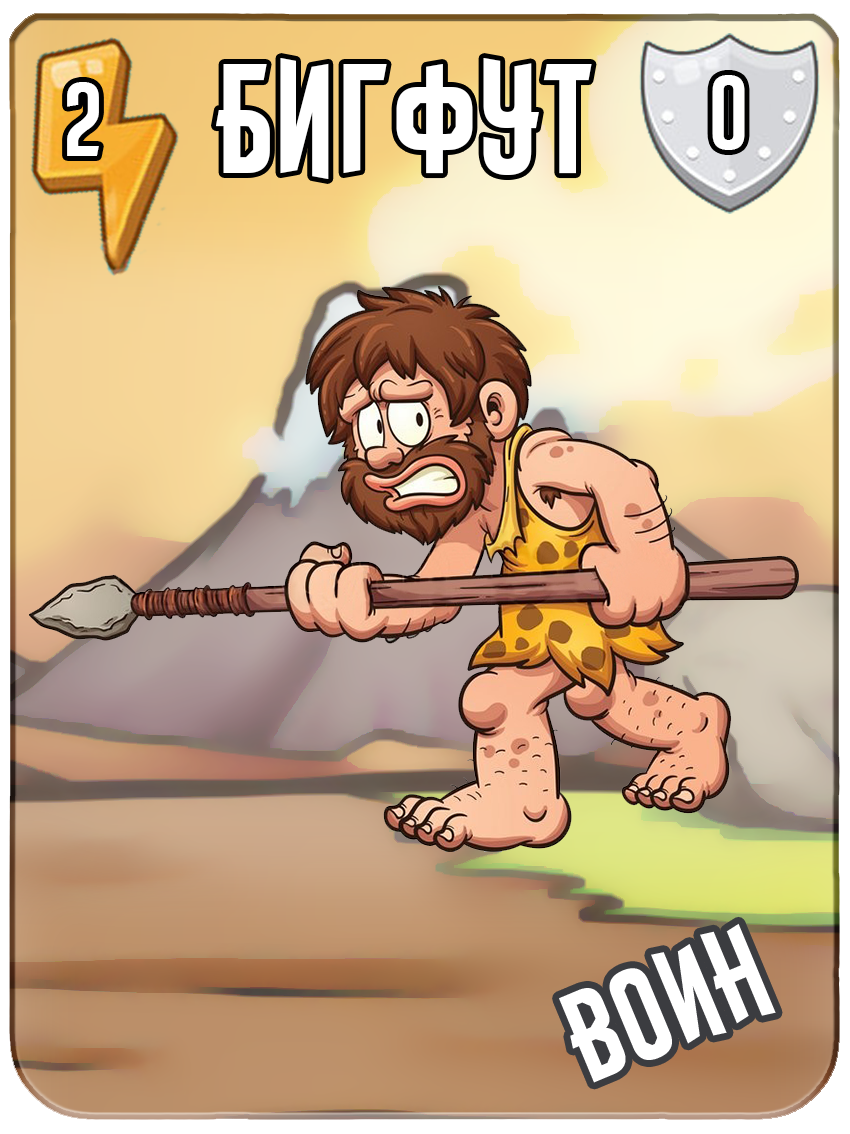
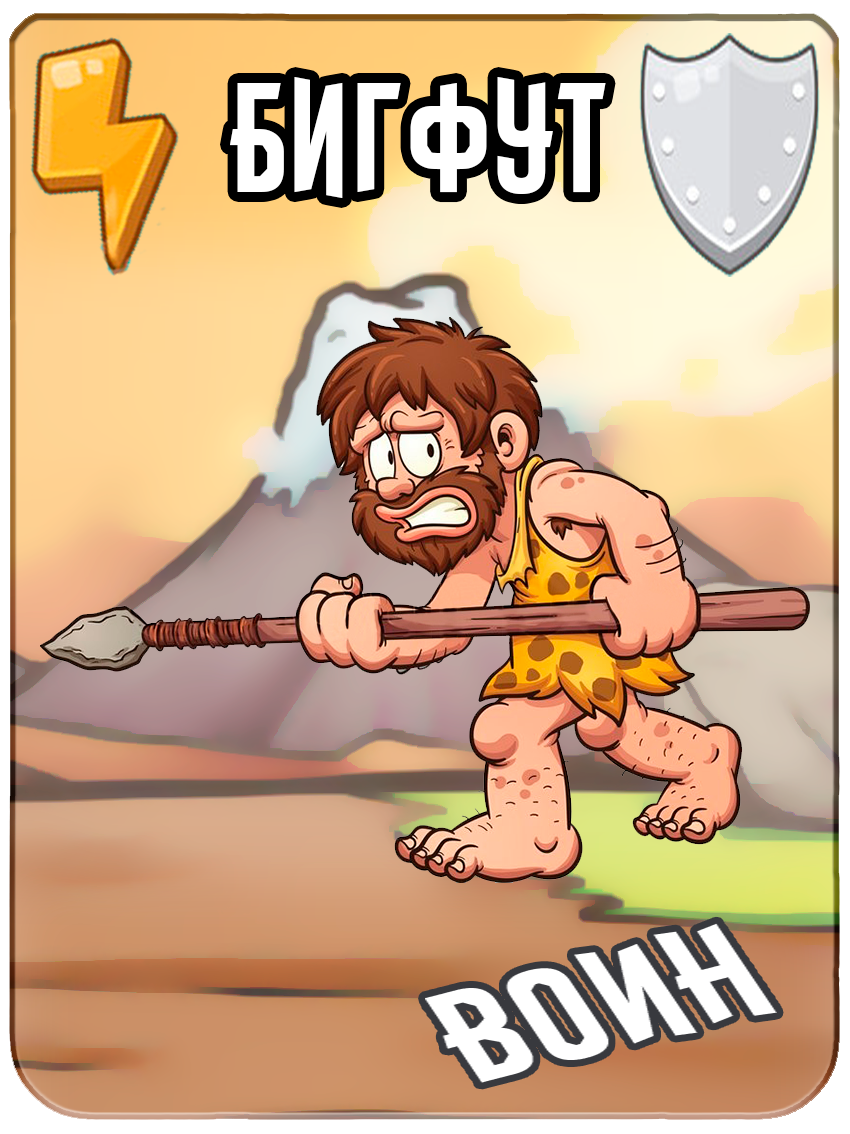
chest

diff --git a/platforms/browser/www/game.js b/platforms/browser/www/game.js
@@ -60,7 +60,7 @@ var Game = {
             ENEMY[key] = game.add.sprite(window.innerWidth-game_desc.width/2, window.innerHeight/2,key)
             ENEMY[key].anchor.setTo(0.5, 0.5)
             ENEMY[key].visible = 0
-            ENEMY[key].scale.setTo(scaleRatio, scaleRatio);
+            ENEMY[key].scale.setTo(scaleRatio/5.6, scaleRatio/5.6);
         }
         EnemyPosition=ENEMY['b1'].position.x 
 // ENEMY END
@@ -110,7 +110,7 @@ var Game = {
             cardsArr[key].events.onDragStop.add(this.onDragStop, this)
             // cardsArr[key].scale.set(1.1);
             // cardsArr[key].scale.set(1);
-            cardsArr[key].scale.setTo(scaleRatio, scaleRatio);
+            cardsArr[key].scale.setTo(scaleRatio/5.6, scaleRatio/5.6);
 // card mem
 			if(i<=3){
 	            Card.add(cardsArr[key].key,gameMem.player.cards,gameMem.player.cardPlace)
@@ -160,7 +160,7 @@ var Game = {
     nextElem: function(){
         elem=cardsArr[gameMem.stack.cards[gameMem.stack.cards.length-1]]
         elem.visible=1
-        elem.scale={x:scaleRatio/1.5, y:scaleRatio/1.5}
+        elem.scale={x:(scaleRatio/5.6)/1.5, y:(scaleRatio/5.6)/1.5}
         elem.input.draggable = false;
         elem.position.x=0 + elem.width/2,
         elem.position.y=window.innerHeight - elem.height/2
@@ -178,7 +178,7 @@ var Game = {
         // elem.visible=1
         // elem.position.copyFrom(card_desc.position); 
         var tween3 = game.add.tween(elem.scale).to({
-            x:scaleRatio, y:scaleRatio
+            x:(scaleRatio/5.6), y:(scaleRatio/5.6)
         }, 200, Phaser.Easing.Bounce.InOut, true);
 
         visible = game.add.tween(elem.position).to({
@@ -250,7 +250,7 @@ var Game = {
             return;
         }
         // Phaser.Easing.Elastic.Out
-        tween = Game.add.tween(obj.scale).to( { x:scaleRatio+0.2, y:scaleRatio+0.2 }, 100, Phaser.Easing.Linear.None, true);
+        tween = Game.add.tween(obj.scale).to( { x:(scaleRatio+0.2)/5.6, y:(scaleRatio+0.2)/5.6 }, 100, Phaser.Easing.Linear.None, true);
     },
     randomInteger: function (min, max) {
         var rand = min + Math.random() * (max + 1 - min);
@@ -262,7 +262,7 @@ var Game = {
         {
             return;
         }
-        tween = Game.add.tween(obj.scale).to( { x:scaleRatio, y:scaleRatio }, 100, Phaser.Easing.Linear.None, true);
+        tween = Game.add.tween(obj.scale).to( { x:(scaleRatio/5.6), y:(scaleRatio/5.6) }, 100, Phaser.Easing.Linear.None, true);
 
         Card.remove(obj.key,gameMem.player.cards,gameMem.player.cardPlace)
 
@@ -278,14 +278,14 @@ var Game = {
             Card.add(obj.key,gameMem.player.cards,gameMem.player.cardPlace)
             obj.position.copyFrom(card_desc.position); 
             obj.anchor.setTo((gameMem.player.cardPlace[obj.key]-1)-card_desc.anchor.x, card_desc.anchor.y); 
-            console.log("пересечения с доской для карт "+gameMem.player.cardPlace[obj.key])
+            // console.log("пересечения с доской для карт "+gameMem.player.cardPlace[obj.key])
         }))
         {
 // пересечение с игральной доской
             game.physics.arcade.collide(obj, game_desc)
             if (!game.physics.arcade.overlap(obj, game_desc, function() {  
 
-                console.log("пересечения с игральной доской ")          
+                // console.log("пересечения с игральной доской ")          
                 l=gameMem.game.cards.length
                 if(!l){
                     Card.add(obj.key,gameMem.game.cards,false) 
@@ -296,7 +296,7 @@ var Game = {
             }))
             { 
                 Card.add(obj.key,gameMem.player.cards,gameMem.player.cardPlace)
-                console.log("нет пересечения "+gameMem.player.cardPlace[obj.key])
+                // console.log("нет пересечения "+gameMem.player.cardPlace[obj.key])
                 obj.position.copyFrom(card_desc.position); 
                 obj.anchor.setTo((gameMem.player.cardPlace[obj.key]-1)-card_desc.anchor.x, card_desc.anchor.y); 
             }            
@@ -315,7 +315,7 @@ var Game = {
 
         visible.onComplete.add(function(elem) {
             scale_tween = game.add.tween(elem.scale).to({
-                 x:scaleRatio+0.5, y:scaleRatio+0.5
+                 x:(scaleRatio+0.5)/5.6, y:(scaleRatio+0.5)/5.6
             }, 500, Phaser.Easing.Linear.None, true);
                 // obj.position.copyFrom(card_desc.position); 
                 // obj.anchor.setTo(card_desc.anchor.x, card_desc.anchor.y); 
@@ -327,7 +327,7 @@ var Game = {
             tween2.onComplete.add(function(elem) {
 
                 var tween3 = game.add.tween(elem.scale).to({
-                 x:scaleRatio, y:scaleRatio
+                 x:(scaleRatio/5.6), y:(scaleRatio/5.6)
                 }, 200, Phaser.Easing.Bounce.InOut, true);
                 clash.play();
                 tween3.onComplete.add(function() {  

diff --git a/www/game.js b/www/game.js
@@ -60,7 +60,7 @@ var Game = {
             ENEMY[key] = game.add.sprite(window.innerWidth-game_desc.width/2, window.innerHeight/2,key)
             ENEMY[key].anchor.setTo(0.5, 0.5)
             ENEMY[key].visible = 0
-            ENEMY[key].scale.setTo(scaleRatio, scaleRatio);
+            ENEMY[key].scale.setTo(scaleRatio/5.6, scaleRatio/5.6);
         }
         EnemyPosition=ENEMY['b1'].position.x 
 // ENEMY END
@@ -110,7 +110,7 @@ var Game = {
             cardsArr[key].events.onDragStop.add(this.onDragStop, this)
             // cardsArr[key].scale.set(1.1);
             // cardsArr[key].scale.set(1);
-            cardsArr[key].scale.setTo(scaleRatio, scaleRatio);
+            cardsArr[key].scale.setTo(scaleRatio/5.6, scaleRatio/5.6);
 // card mem
 			if(i<=3){
 	            Card.add(cardsArr[key].key,gameMem.player.cards,gameMem.player.cardPlace)
@@ -160,7 +160,7 @@ var Game = {
     nextElem: function(){
         elem=cardsArr[gameMem.stack.cards[gameMem.stack.cards.length-1]]
         elem.visible=1
-        elem.scale={x:scaleRatio/1.5, y:scaleRatio/1.5}
+        elem.scale={x:(scaleRatio/5.6)/1.5, y:(scaleRatio/5.6)/1.5}
         elem.input.draggable = false;
         elem.position.x=0 + elem.width/2,
         elem.position.y=window.innerHeight - elem.height/2
@@ -178,7 +178,7 @@ var Game = {
         // elem.visible=1
         // elem.position.copyFrom(card_desc.position); 
         var tween3 = game.add.tween(elem.scale).to({
-            x:scaleRatio, y:scaleRatio
+            x:(scaleRatio/5.6), y:(scaleRatio/5.6)
         }, 200, Phaser.Easing.Bounce.InOut, true);
 
         visible = game.add.tween(elem.position).to({
@@ -250,7 +250,7 @@ var Game = {
             return;
         }
         // Phaser.Easing.Elastic.Out
-        tween = Game.add.tween(obj.scale).to( { x:scaleRatio+0.2, y:scaleRatio+0.2 }, 100, Phaser.Easing.Linear.None, true);
+        tween = Game.add.tween(obj.scale).to( { x:(scaleRatio+0.2)/5.6, y:(scaleRatio+0.2)/5.6 }, 100, Phaser.Easing.Linear.None, true);
     },
     randomInteger: function (min, max) {
         var rand = min + Math.random() * (max + 1 - min);
@@ -262,7 +262,7 @@ var Game = {
         {
             return;
         }
-        tween = Game.add.tween(obj.scale).to( { x:scaleRatio, y:scaleRatio }, 100, Phaser.Easing.Linear.None, true);
+        tween = Game.add.tween(obj.scale).to( { x:(scaleRatio/5.6), y:(scaleRatio/5.6) }, 100, Phaser.Easing.Linear.None, true);
 
         Card.remove(obj.key,gameMem.player.cards,gameMem.player.cardPlace)
 
@@ -278,14 +278,14 @@ var Game = {
             Card.add(obj.key,gameMem.player.cards,gameMem.player.cardPlace)
             obj.position.copyFrom(card_desc.position); 
             obj.anchor.setTo((gameMem.player.cardPlace[obj.key]-1)-card_desc.anchor.x, card_desc.anchor.y); 
-            console.log("пересечения с доской для карт "+gameMem.player.cardPlace[obj.key])
+            // console.log("пересечения с доской для карт "+gameMem.player.cardPlace[obj.key])
         }))
         {
 // пересечение с игральной доской
             game.physics.arcade.collide(obj, game_desc)
             if (!game.physics.arcade.overlap(obj, game_desc, function() {  
 
-                console.log("пересечения с игральной доской ")          
+                // console.log("пересечения с игральной доской ")          
                 l=gameMem.game.cards.length
                 if(!l){
                     Card.add(obj.key,gameMem.game.cards,false) 
@@ -296,7 +296,7 @@ var Game = {
             }))
             { 
                 Card.add(obj.key,gameMem.player.cards,gameMem.player.cardPlace)
-                console.log("нет пересечения "+gameMem.player.cardPlace[obj.key])
+                // console.log("нет пересечения "+gameMem.player.cardPlace[obj.key])
                 obj.position.copyFrom(card_desc.position); 
                 obj.anchor.setTo((gameMem.player.cardPlace[obj.key]-1)-card_desc.anchor.x, card_desc.anchor.y); 
             }            
@@ -315,7 +315,7 @@ var Game = {
 
         visible.onComplete.add(function(elem) {
             scale_tween = game.add.tween(elem.scale).to({
-                 x:scaleRatio+0.5, y:scaleRatio+0.5
+                 x:(scaleRatio+0.5)/5.6, y:(scaleRatio+0.5)/5.6
             }, 500, Phaser.Easing.Linear.None, true);
                 // obj.position.copyFrom(card_desc.position); 
                 // obj.anchor.setTo(card_desc.anchor.x, card_desc.anchor.y); 
@@ -327,7 +327,7 @@ var Game = {
             tween2.onComplete.add(function(elem) {
 
                 var tween3 = game.add.tween(elem.scale).to({
-                 x:scaleRatio, y:scaleRatio
+                 x:(scaleRatio/5.6), y:(scaleRatio/5.6)
                 }, 200, Phaser.Easing.Bounce.InOut, true);
                 clash.play();
                 tween3.onComplete.add(function() {  

diff --git a/platforms/browser/www/boot.js b/platforms/browser/www/boot.js
@@ -10,11 +10,11 @@ var game = new Phaser.Game(
     // }
 );
 
-var style = { font: '50px "Shark"', fill: '#FFFFFF', stroke: '#000000', strokeThickness: 10, align: 'center' };
-var styleG = { font: '25px "Shark"', fill: '#FFFFFF', stroke: '#0a73a2', strokeThickness: 5, align: 'right' };
-var styleGold = { font: '30px "Shark"', fill: '#FFFFFF', stroke: '#cd7c3f', strokeThickness: 5, align: 'right' };
-var styleBig = { font: '20px "Droid Sans"', fill: '#FFFFFF', stroke: '#33251a', strokeThickness: 4, align: 'left' };
-var scaleRatio = window.devicePixelRatio / 4;
+var style = { font: '50px "Shark"', fill: '#FFFFFF', stroke: '#000000', strokeThickness: 1, align: 'center' };
+var styleG = { font: '50px "Shark"', fill: '#FFFFFF', stroke: '#0a73a2', strokeThickness: 1, align: 'right' };
+var styleGold = { font: '50px "Shark"', fill: '#FFFFFF', stroke: '#cd7c3f', strokeThickness: 1, align: 'right' };
+var styleBig = { font: '50px "Droid Sans"', fill: '#FFFFFF', stroke: '#33251a', strokeThickness: 1, align: 'left' };
+var scaleRatio = window.devicePixelRatio / 1;
 // start boot loader
 function fileComplete(progress, cacheKey, success, totalLoaded, totalFiles) {
     //LoadingText.setText(progress + "%  ");

diff --git a/www/boot.js b/www/boot.js
@@ -10,11 +10,11 @@ var game = new Phaser.Game(
     // }
 );
 
-var style = { font: '50px "Shark"', fill: '#FFFFFF', stroke: '#000000', strokeThickness: 10, align: 'center' };
-var styleG = { font: '25px "Shark"', fill: '#FFFFFF', stroke: '#0a73a2', strokeThickness: 5, align: 'right' };
-var styleGold = { font: '30px "Shark"', fill: '#FFFFFF', stroke: '#cd7c3f', strokeThickness: 5, align: 'right' };
-var styleBig = { font: '20px "Droid Sans"', fill: '#FFFFFF', stroke: '#33251a', strokeThickness: 4, align: 'left' };
-var scaleRatio = window.devicePixelRatio / 4;
+var style = { font: '50px "Shark"', fill: '#FFFFFF', stroke: '#000000', strokeThickness: 1, align: 'center' };
+var styleG = { font: '50px "Shark"', fill: '#FFFFFF', stroke: '#0a73a2', strokeThickness: 1, align: 'right' };
+var styleGold = { font: '50px "Shark"', fill: '#FFFFFF', stroke: '#cd7c3f', strokeThickness: 1, align: 'right' };
+var styleBig = { font: '50px "Droid Sans"', fill: '#FFFFFF', stroke: '#33251a', strokeThickness: 1, align: 'left' };
+var scaleRatio = window.devicePixelRatio / 1;
 // start boot loader
 function fileComplete(progress, cacheKey, success, totalLoaded, totalFiles) {
     //LoadingText.setText(progress + "%  ");

diff --git a/platforms/browser/www/index.html b/platforms/browser/www/index.html
@@ -2,7 +2,6 @@
 <html lang="en">
 <head>
 	<meta charset="UTF-8">
-	<meta name="viewport" content="user-scalable=no, initial-scale=1, maximum-scale=1, minimum-scale=1, width=device-width, height=device-height" />
 	<link rel="stylesheet" href="style.css">
 	<script src="phaser.min.js"></script>
 	<script src="boot.js"></script>
@@ -11,6 +10,6 @@
 	<title>Document</title>
 </head>
 <body class="platform-browser platform-cordova platform-webview">
-	<div class="font-loader">-</div>
+	<div class="font-loader" style="position: absolute;">-</div>
 </body>
 </html>

diff --git a/platforms/browser/www/menu.js b/platforms/browser/www/menu.js
@@ -48,7 +48,10 @@ var Menu =
         lvlT.anchor.setTo(lvl.anchor.x, lvl.anchor.y);
         lvlT.scale.setTo(scaleRatio/2, scaleRatio/2);
 
-        
+        if(user.chest.days.length!=0){
+            bigText.text="У вас новый сундук"
+            var tween = Menu.add.tween(bigText).to({alpha:1},200, Phaser.Easing.Bounce.In, true);
+        }
 
         var gold = this.add.sprite(lvl.width+20,50 , 'gold');
         gold.anchor.setTo(0, 0.5);

diff --git a/www/menu.js b/www/menu.js
@@ -48,7 +48,10 @@ var Menu =
         lvlT.anchor.setTo(lvl.anchor.x, lvl.anchor.y);
         lvlT.scale.setTo(scaleRatio/2, scaleRatio/2);
 
-        
+        if(user.chest.days.length!=0){
+            bigText.text="У вас новый сундук"
+            var tween = Menu.add.tween(bigText).to({alpha:1},200, Phaser.Easing.Bounce.In, true);
+        }
 
         var gold = this.add.sprite(lvl.width+20,50 , 'gold');
         gold.anchor.setTo(0, 0.5);

diff --git a/platforms/browser/www/phaser.min.js b/platforms/browser/www/phaser.min.js
@@ -68,6 +68,7 @@ var Card = {
 					i++ 
 				}
 				if(arr.length==0){ place[key]=1; }
+				console.log(place[key])
 				if(place[key]==undefined){place[key]=last+1;}
 			}
         	return arr.push(key)

diff --git a/www/phaser.min.js b/www/phaser.min.js
@@ -68,6 +68,7 @@ var Card = {
 					i++ 
 				}
 				if(arr.length==0){ place[key]=1; }
+				console.log(place[key])
 				if(place[key]==undefined){place[key]=last+1;}
 			}
         	return arr.push(key)

diff --git a/www/index.html b/www/index.html
@@ -10,6 +10,6 @@
 	<title>Document</title>
 </head>
 <body>
-	<div class="font-loader">-</div>
+	<div class="font-loader" style="position: absolute;">-</div>
 </body>
 </html>
